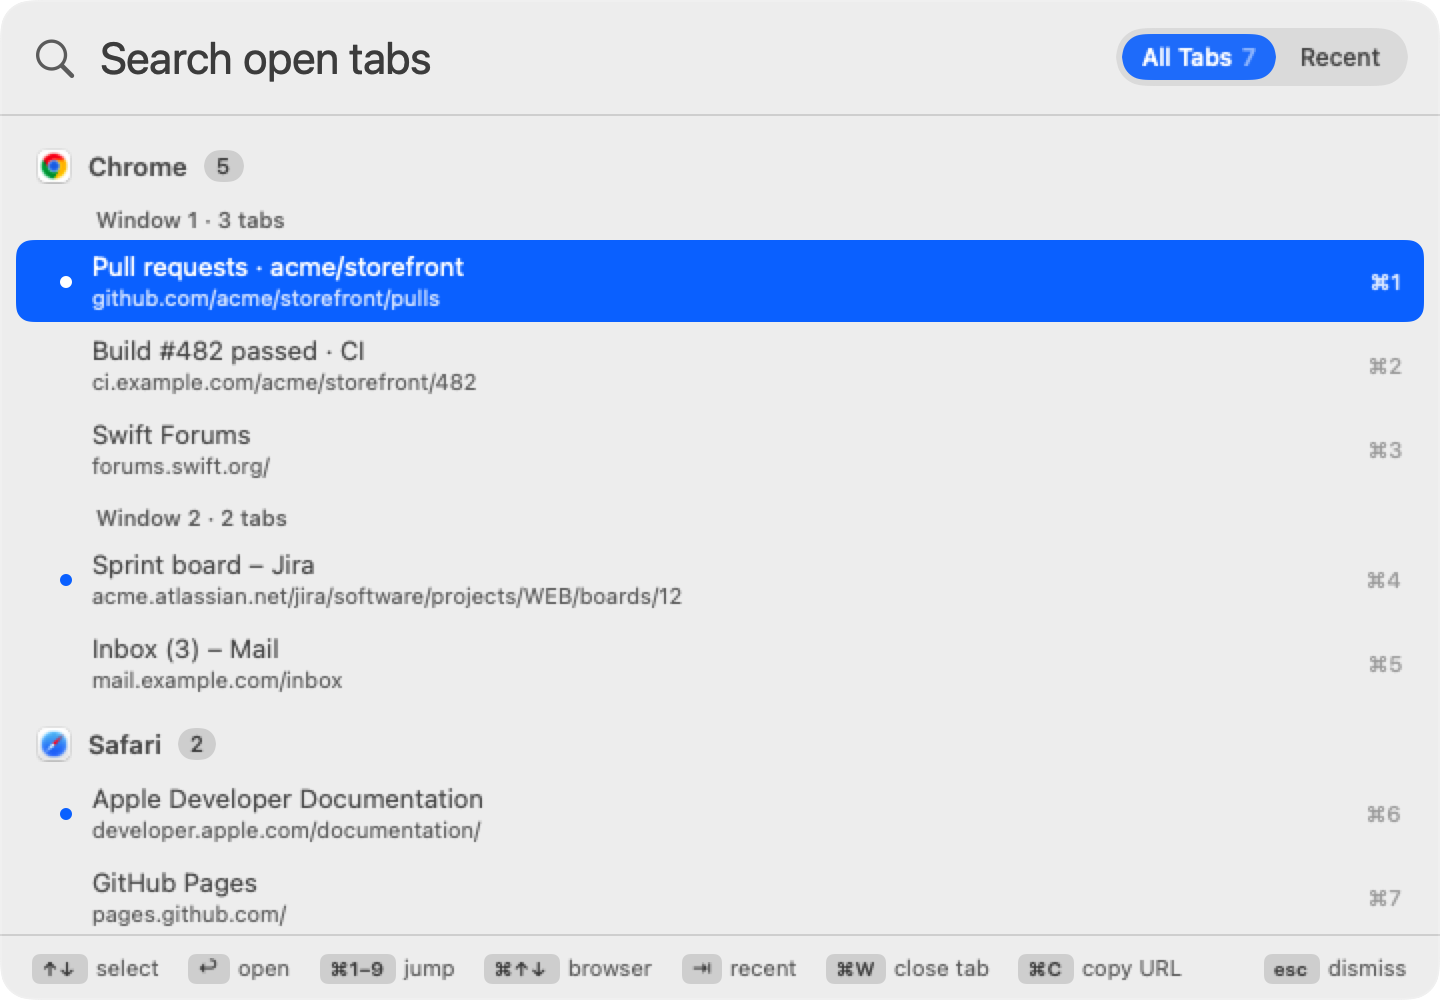
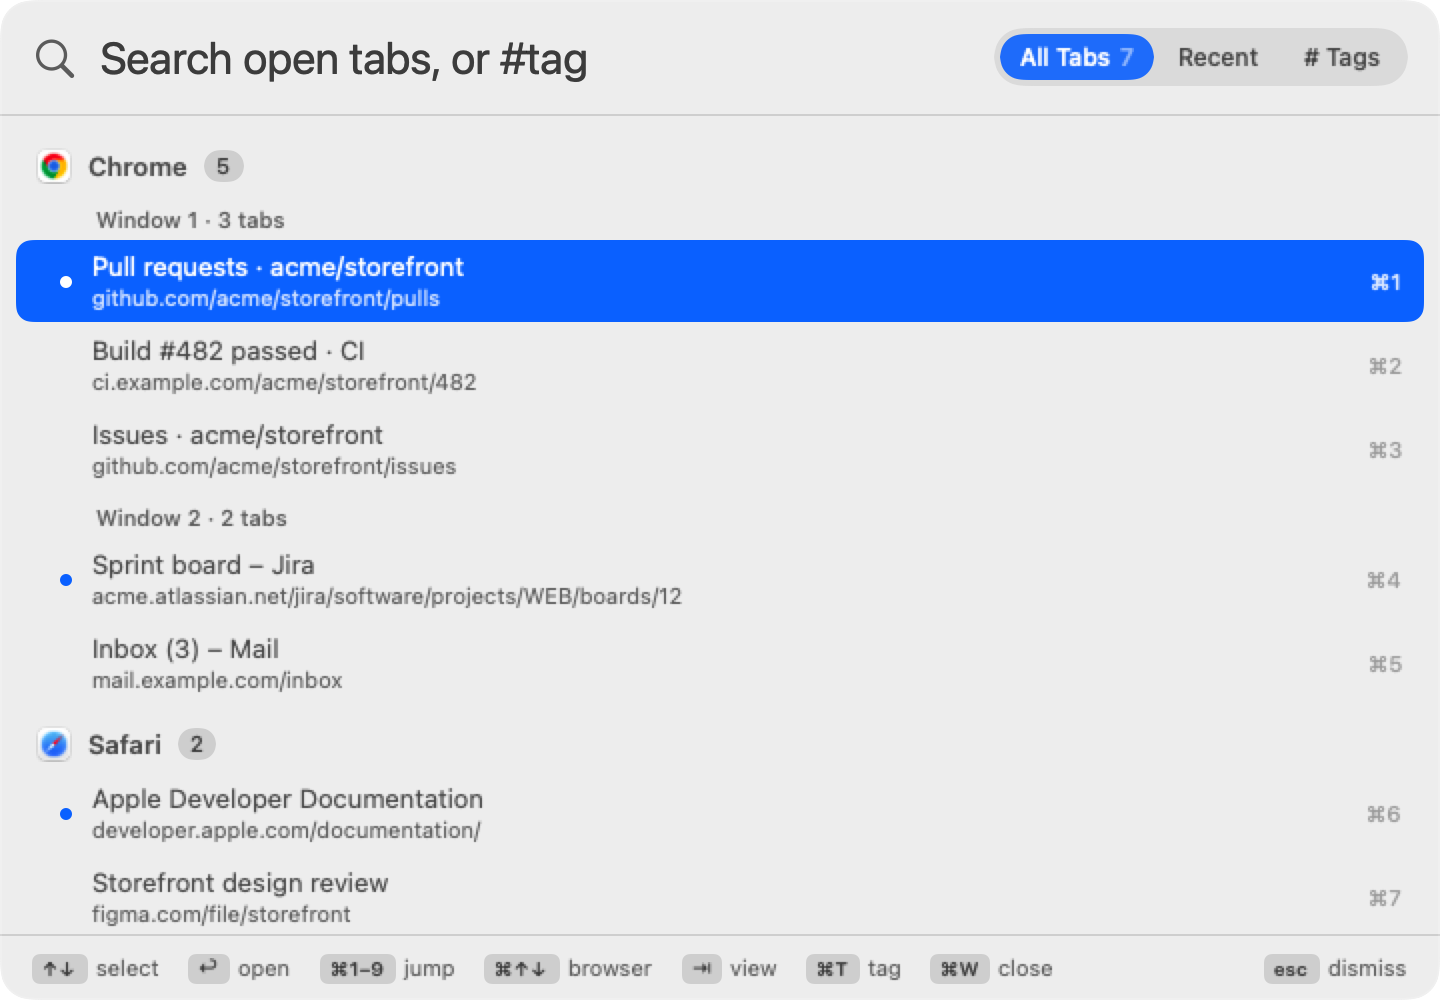
Docs for 1.0.0: hashtags and site groups, more browsers, shortcut conflicts, App Store edition and listing; Tags screenshot

diff --git a/docs.html b/docs.html
@@ -6,7 +6,7 @@
   <title>Docs · BrowserSearch</title>
   <meta name="description" content="How to use BrowserSearch: hotkey, the tab tree, search, recent tabs, keyboard controls, browser support, permissions and settings.">
   <link rel="icon" href="images/icon.png">
-  <link rel="stylesheet" href="assets/style.css?v=2">
+  <link rel="stylesheet" href="assets/style.css?v=4">
 </head>
 <body>
 <header class="site-header">
@@ -26,6 +26,7 @@
     <a href="#panel">The panel</a>
     <a href="#search">Searching</a>
     <a href="#recent">Recent tabs</a>
+    <a href="#tags">Hashtags &amp; groups</a>
     <a href="#keys">Keyboard</a>
     <a href="#browsers">Supported browsers</a>
     <a href="#permissions">Permissions</a>
@@ -62,6 +63,8 @@
       <li><strong>Letters can be skipped</strong> once you type three or more, as long as they're close together: <code>gthb</code> finds GitHub.</li>
       <li><strong>Exact text ranks first,</strong> and a match near the start beats one near the end. The browser with the best match is listed first.</li>
       <li><strong>Add a browser name</strong> to narrow it down: <code>safari docs</code>.</li>
+      <li><strong>Matched text is highlighted</strong> in bold in each title.</li>
+      <li><strong>Nothing open?</strong> When no tab matches, <kbd>↩</kbd> searches the web for what you typed in your default browser.</li>
     </ul>
 
     <h2 id="recent">Recent tabs</h2>
@@ -75,6 +78,19 @@
     </ul>
     <div class="callout">Turn on <strong>Open the panel on Recent</strong> in Settings to make jump-back a two-key habit. Recent tabs can be turned off or cleared at any time.</div>
 
+    <h2 id="tags">Hashtags &amp; groups</h2>
+    <p>Group tabs your way with hashtags, and let BrowserSearch group them by site for you.</p>
+    <img src="images/panel-tags.png" alt="The Tags view with site groups">
+    <ul>
+      <li><strong>Tag a tab:</strong> select it and press <kbd>⌘T</kbd>. Type tags like <code>#work #jira</code> (the <code>#</code> is optional), then <kbd>↩</kbd>. <kbd>esc</kbd> cancels; clear the box to remove tags.</li>
+      <li><strong>Tags follow the page,</strong> not the browser: the same address open in Chrome and Safari shares its tags, and they come back when you reopen it.</li>
+      <li><strong>Search by tag</strong> in any view: <code>#wo</code> shows tabs with a tag starting “wo”. Mix with text: <code>#work jira</code>.</li>
+      <li><strong>The # Tags view</strong> (<kbd>⇥</kbd> until it's selected) lists your tags, most used first, each with its tabs. <kbd>⌘↑</kbd> <kbd>⌘↓</kbd> jump between tags.</li>
+      <li><strong>Site groups</strong> appear below your tags automatically for any site with two or more open tabs (<code>github</code>, <code>atlassian</code>…), marked “site”.</li>
+      <li><strong>Click a tag chip</strong> on a result to show everything with that tag.</li>
+    </ul>
+    <p>Firefox tabs have no address available, so they're tagged by title.</p>
+
     <h2 id="keys">Keyboard</h2>
     <div class="table-scroll"><table>
       <tr><th>Key</th><th>Action</th></tr>
@@ -84,7 +100,8 @@
       <tr><td><kbd>⌘↑</kbd> / <kbd>⌘↓</kbd></td><td>Jump to the previous / next browser</td></tr>
       <tr><td><kbd>↩</kbd></td><td>Switch to the selected tab</td></tr>
       <tr><td><kbd>⌘1</kbd>–<kbd>⌘9</kbd></td><td>Switch to result 1–9</td></tr>
-      <tr><td><kbd>⇥</kbd></td><td>Toggle All Tabs and Recent</td></tr>
+      <tr><td><kbd>⇥</kbd></td><td>Cycle All Tabs, Recent and # Tags</td></tr>
+      <tr><td><kbd>⌘T</kbd></td><td>Add or edit the selected tab's hashtags</td></tr>
       <tr><td><kbd>⌘W</kbd></td><td>Close the selected tab in its browser (Chrome, Safari)</td></tr>
       <tr><td><kbd>⌘C</kbd></td><td>Copy the selected tab's address (copies text instead if you've selected some in the search box)</td></tr>
       <tr><td><kbd>⌘R</kbd></td><td>Reload the tab list</td></tr>
@@ -97,8 +114,10 @@
       <tr><th>Browser</th><th>Searches</th><th>Close tab</th><th>Recent</th></tr>
       <tr><td>Google Chrome</td><td>Title and address</td><td>Yes</td><td>Yes</td></tr>
       <tr><td>Safari</td><td>Title and address</td><td>Yes</td><td>Yes</td></tr>
+      <tr><td>Brave, Microsoft Edge, Vivaldi</td><td>Title and address</td><td>Yes</td><td>Yes</td></tr>
       <tr><td>Firefox</td><td>Title only</td><td>No</td><td>Yes, but closed Firefox tabs can't be reopened</td></tr>
     </table></div>
+    <div class="callout">The <strong>Mac App Store edition</strong> doesn't include Firefox: reading Firefox tabs needs Accessibility access, which App Store apps can't use. Everything else is the same.</div>
     <p>Browsers that aren't running are skipped. BrowserSearch never opens a browser just to search it.</p>
 
     <h2 id="permissions">Permissions</h2>
@@ -109,14 +128,18 @@
     <p>Open from the menu bar icon › <strong>Settings…</strong>, or open BrowserSearch again from Finder or Spotlight.</p>
     <h3>General</h3>
     <ul>
-      <li><strong>Search shortcut.</strong> Click it and press a new combination. <kbd>esc</kbd> cancels. Combinations another app already owns are refused.</li>
+      <li><strong>Search shortcut.</strong> Click it and press a new combination. <kbd>esc</kbd> cancels. BrowserSearch checks it against macOS shortcuts, other apps' global hotkeys, your custom App Shortcuts and Services, and the default shortcuts of launchers you have installed (ChatGPT, Raycast, Alfred). A combination that wouldn't reach BrowserSearch asks before it's used; softer clashes, like <kbd>⌘F</kbd> which every app uses for Find, are shown as warnings under the shortcut.</li>
       <li><strong>Launch at login.</strong> Starts BrowserSearch quietly in the menu bar when you log in. If macOS asks for approval, click <strong>Open Login Items</strong>.</li>
       <li><strong>Show in menu bar.</strong> Turn off for a clean menu bar. The shortcut keeps working; open BrowserSearch from Finder or Spotlight to get back to Settings.</li>
+    </ul>
+    <h3>Search</h3>
+    <ul>
       <li><strong>Match web addresses.</strong> On by default. Turn off to search tab titles only.</li>
       <li><strong>Show web addresses in results.</strong> Hide the address line for a more compact list.</li>
       <li><strong>Remember recently used tabs.</strong> Turns the Recent view on or off.</li>
       <li><strong>Open the panel on Recent.</strong> Start in Recent instead of All Tabs.</li>
       <li><strong>Clear Recent Tabs.</strong> Forgets the list.</li>
+      <li><strong>Hashtags › Clear All Tags.</strong> Removes every tag you've added.</li>
     </ul>
     <h3>Browsers</h3>
     <ul>

diff --git a/index.html b/index.html
@@ -6,7 +6,7 @@
   <title>BrowserSearch for macOS</title>
   <meta name="description" content="BrowserSearch finds any open tab in Chrome, Safari or Firefox with a keystroke. Tabs grouped by browser and window, fuzzy search, recent tabs, and it jumps straight to the right tab.">
   <link rel="icon" href="images/icon.png">
-  <link rel="stylesheet" href="assets/style.css?v=2">
+  <link rel="stylesheet" href="assets/style.css?v=4">
 </head>
 <body>
 <header class="site-header">
@@ -29,20 +29,23 @@
       <a class="btn primary" href="docs.html#start">Get started</a>
       <a class="btn" href="#keyboard">Keyboard shortcuts</a>
     </div>
-    <p class="meta">macOS 14 Sonoma or later · Lives in your menu bar · Nothing leaves your Mac</p>
+    <p class="meta">macOS 14 Sonoma or later · Chrome, Safari, Firefox, Brave, Edge, Vivaldi · Nothing leaves your Mac</p>
 
     <div class="viewer">
       <input type="radio" name="view" id="v-all" checked>
       <input type="radio" name="view" id="v-search">
       <input type="radio" name="view" id="v-recent">
+      <input type="radio" name="view" id="v-tags">
       <div class="switch" role="tablist" aria-label="Screenshots">
         <label for="v-all">All tabs</label>
         <label for="v-search">Searching</label>
         <label for="v-recent">Recent</label>
+        <label for="v-tags"># Tags</label>
       </div>
       <div class="frames">
         <img class="f-all" src="images/panel-all.png" alt="The BrowserSearch panel listing tabs grouped under Chrome and Safari, and by window">
         <img class="f-search" src="images/panel-search.png" alt="Typing 'store' narrows the list to the two matching Chrome tabs">
+        <img class="f-tags" src="images/panel-tags.png" alt="The Tags view grouping tabs under site groups like github and example">
         <img class="f-recent" src="images/panel-recent.png" alt="The Recent list showing the most recently used tabs, newest first, with the previous tab preselected">
       </div>
     </div>
@@ -71,10 +74,14 @@
       <div class="grid">
         <div class="card"><span class="emoji">🌳</span><h3>Organized like your Mac</h3><p>Tabs grouped by browser, then by window, with the tab each window is showing marked.</p></div>
         <div class="card"><span class="emoji">🔎</span><h3>Fuzzy search</h3><p>Titles and addresses. <code>store</code>, <code>gh pull</code>, or just initials: <code>pr</code> finds “Pull requests”.</p></div>
-        <div class="card"><span class="emoji">🕘</span><h3>Recent tabs <span class="tag new">new</span></h3><p>A live, most-recently-used list across all browsers. Press <kbd>⇥</kbd> to switch to it.</p></div>
+        <div class="card"><span class="emoji">#⃣</span><h3>Hashtag groups <span class="tag new">new</span></h3><p>Press <kbd>⌘T</kbd> to tag a tab <code>#work</code>. Type <code>#wo</code> to see just those, or open the <strong># Tags</strong> view.</p></div>
+        <div class="card"><span class="emoji">🌐</span><h3>Automatic site groups <span class="tag new">new</span></h3><p>Tabs from the same site group themselves in the Tags view: every GitHub tab under <code>github</code>, no setup.</p></div>
+        <div class="card"><span class="emoji">🕘</span><h3>Recent tabs</h3><p>A live, most-recently-used list across all browsers. Press <kbd>⇥</kbd> to switch to it.</p></div>
         <div class="card"><span class="emoji">↩</span><h3>Jump back</h3><p>Open on Recent and the previous tab is preselected: shortcut, <kbd>↩</kbd>, and you're back. Like <kbd>⌘⇥</kbd> for tabs.</p></div>
         <div class="card"><span class="emoji">⚡</span><h3>Number keys</h3><p><kbd>⌘1</kbd>–<kbd>⌘9</kbd> open the first nine results instantly. <kbd>⌘↑</kbd> <kbd>⌘↓</kbd> hop between browsers.</p></div>
         <div class="card"><span class="emoji">🧹</span><h3>Tidy up</h3><p>Close the selected tab with <kbd>⌘W</kbd> without leaving the panel. Copy its address with <kbd>⌘C</kbd>.</p></div>
+        <div class="card"><span class="emoji">🔍</span><h3>Not open? Search the web</h3><p>When no tab matches, <kbd>↩</kbd> searches the web for what you typed, in your default browser.</p></div>
+        <div class="card"><span class="emoji">🛡</span><h3>Shortcut conflict check</h3><p>Warns when your shortcut clashes with macOS, another app's hotkey, or a launcher like Raycast, Alfred or ChatGPT.</p></div>
         <div class="card"><span class="emoji">♻</span><h3>Reopen closed tabs</h3><p>Tabs you closed stay in Recent; pick one to open it again in the same browser.</p></div>
         <div class="card"><span class="emoji">💤</span><h3>Never launches browsers</h3><p>Only open browsers are searched. If only Chrome is running, only Chrome is searched.</p></div>
         <div class="card"><span class="emoji">🔒</span><h3>Private by design</h3><p>No network access, no analytics. Recent tabs are kept on your Mac and can be turned off or cleared.</p></div>
@@ -126,7 +133,8 @@
         <div class="key"><kbd>↩</kbd><span>Switch to the tab</span></div>
         <div class="key"><kbd>⌘1–9</kbd><span>Open result 1–9</span></div>
         <div class="key"><kbd>⌘↑ ⌘↓</kbd><span>Previous / next browser</span></div>
-        <div class="key"><kbd>⇥</kbd><span>All tabs ⇄ Recent</span></div>
+        <div class="key"><kbd>⇥</kbd><span>All · Recent · Tags</span></div>
+        <div class="key"><kbd>⌘T</kbd><span>Tag the selected tab</span></div>
         <div class="key"><kbd>⌘W</kbd><span>Close the selected tab</span></div>
         <div class="key"><kbd>⌘C</kbd><span>Copy the tab's address</span></div>
         <div class="key"><kbd>⌘R</kbd><span>Reload the tab list</span></div>
@@ -146,7 +154,8 @@
         <tr><th>Browser</th><th>Search titles</th><th>Search addresses</th><th>Switch</th><th>Close with ⌘W</th></tr>
         <tr><td>Google Chrome</td><td class="yes">✓</td><td class="yes">✓</td><td class="yes">✓</td><td class="yes">✓</td></tr>
         <tr><td>Safari</td><td class="yes">✓</td><td class="yes">✓</td><td class="yes">✓</td><td class="yes">✓</td></tr>
-        <tr><td>Firefox</td><td class="yes">✓</td><td>—</td><td class="yes">✓</td><td>—</td></tr>
+        <tr><td>Brave, Microsoft Edge, Vivaldi</td><td class="yes">✓</td><td class="yes">✓</td><td class="yes">✓</td><td class="yes">✓</td></tr>
+        <tr><td>Firefox <span class="tag">direct download</span></td><td class="yes">✓</td><td>—</td><td class="yes">✓</td><td>—</td></tr>
       </table></div>
     </div>
   </section>

diff --git a/support.html b/support.html
@@ -6,7 +6,7 @@
   <title>Support · BrowserSearch</title>
   <meta name="description" content="Troubleshooting and help for BrowserSearch.">
   <link rel="icon" href="images/icon.png">
-  <link rel="stylesheet" href="assets/style.css?v=2">
+  <link rel="stylesheet" href="assets/style.css?v=4">
 </head>
 <body>
 <header class="site-header">
@@ -46,6 +46,18 @@
         <li>Open <strong>Settings…</strong>. A red note under the shortcut means another app owns it. Record a different one.</li>
         <li>Try choosing <strong>Search Tabs</strong> from the menu bar icon. If the panel opens, the problem is the shortcut, not the app.</li>
       </ol>
+    </details>
+    <details>
+      <summary>Settings shows a warning under my shortcut</summary>
+      <p>BrowserSearch checks your shortcut against macOS, other apps and common launchers. <strong>Red</strong> means the shortcut won't reach BrowserSearch (macOS or another running app owns it): record a different one. <strong>Orange</strong> means it works but clashes with something, for example <kbd>⌘F</kbd> would replace Find in every app, and ChatGPT, Raycast and Alfred use <kbd>⌥Space</kbd> by default. Shortcuts with <kbd>⌃⌥</kbd> are rarely taken.</p>
+    </details>
+    <details>
+      <summary>How do I group tabs?</summary>
+      <p>Select a tab and press <kbd>⌘T</kbd>, type <code>#work</code> and press <kbd>↩</kbd>. Then type <code>#work</code> in the panel, or press <kbd>⇥</kbd> to the <strong># Tags</strong> view. Sites with several open tabs are grouped there automatically.</p>
+    </details>
+    <details>
+      <summary>Why doesn't the App Store version support Firefox?</summary>
+      <p>Firefox can only be read through Accessibility, which apps from the Mac App Store aren't allowed to use. The direct-download edition supports Firefox.</p>
     </details>
     <details>
       <summary>The menu bar icon is gone</summary>

diff --git a/assets/style.css b/assets/style.css
@@ -117,13 +117,16 @@ kbd { border-bottom-width: 2px; white-space: nowrap; }
 .viewer .caption { color: var(--muted); font-size: 15px; margin-top: 16px; display: none; }
 #v-all:checked ~ .switch label[for="v-all"],
 #v-search:checked ~ .switch label[for="v-search"],
-#v-recent:checked ~ .switch label[for="v-recent"] { background: var(--grad); color: #fff; }
+#v-recent:checked ~ .switch label[for="v-recent"],
+#v-tags:checked ~ .switch label[for="v-tags"] { background: var(--grad); color: #fff; }
 #v-all:checked ~ .frames .f-all,
 #v-search:checked ~ .frames .f-search,
-#v-recent:checked ~ .frames .f-recent { display: block; }
+#v-recent:checked ~ .frames .f-recent,
+#v-tags:checked ~ .frames .f-tags { display: block; }
 #v-all:focus-visible ~ .switch label[for="v-all"],
 #v-search:focus-visible ~ .switch label[for="v-search"],
-#v-recent:focus-visible ~ .switch label[for="v-recent"] { outline: 2px solid var(--blue); outline-offset: 2px; }
+#v-recent:focus-visible ~ .switch label[for="v-recent"],
+#v-tags:focus-visible ~ .switch label[for="v-tags"] { outline: 2px solid var(--blue); outline-offset: 2px; }
 
 /* Sections */
 section { padding: 56px 0; }

diff --git a/privacy.html b/privacy.html
@@ -6,7 +6,7 @@
   <title>Privacy · BrowserSearch</title>
   <meta name="description" content="BrowserSearch privacy policy: no data collected, nothing leaves your Mac.">
   <link rel="icon" href="images/icon.png">
-  <link rel="stylesheet" href="assets/style.css?v=2">
+  <link rel="stylesheet" href="assets/style.css?v=4">
 </head>
 <body>
 <header class="site-header">
@@ -33,6 +33,7 @@
     <ul>
       <li>Your settings, such as the search shortcut. Launch at login is managed by macOS.</li>
       <li>With Recent tabs on (the default): the title, URL, browser and time of the <strong>last 50 tabs</strong> you used. They are saved in BrowserSearch's preferences on your Mac so the list survives restarts.</li>
+      <li>Hashtags you add: the tags and the address (or, for Firefox, the title) of each page you tagged. Remove them with <strong>Clear All Tags</strong> in Settings › Search.</li>
     </ul>
     <p>To remove them, click <strong>Clear Recent Tabs</strong> in Settings. To stop collecting them, turn off <strong>Remember recently used tabs</strong>. Turning a browser off in Settings › Browsers also stops tracking it.</p>
 

diff --git a/appstore/listing.md b/appstore/listing.md
@@ -1,0 +1,51 @@
+# BrowserSearch — App Store Connect listing
+
+Bundle ID `com.giridharmb.BrowserSearch` · Platform macOS · Category Productivity · Price Free · SKU `browsersearch-mac`
+
+## Name
+BrowserSearch
+
+## Subtitle (30)
+Find any browser tab instantly
+
+## Promotional text (170)
+Press one shortcut, type a few letters, and jump to any open tab in Chrome, Safari, Brave, Edge or Vivaldi. Now with hashtags to group tabs your way.
+
+## Description
+Too many tabs, too many windows? BrowserSearch finds the one you want in a keystroke.
+
+Press your shortcut from any app, type a few letters of a page's title or address, and press Return. BrowserSearch brings the right browser window forward with that tab selected.
+
+• Every browser at once: Google Chrome, Safari, Brave, Microsoft Edge and Vivaldi, grouped by browser and window.
+• Fuzzy search: matches titles and addresses, initials ("pr" finds Pull requests), and highlights what matched.
+• Recent tabs: a live most-recently-used list across browsers. Jump back to the previous tab in two keys, or reopen one you closed.
+• Hashtags: press ⌘T to tag a tab #work, then type #work to see just those. Tabs from the same site are grouped automatically.
+• Keyboard first: ↑↓ and Return, ⌘1–9 to jump, ⌘W to close a tab, ⌘C to copy its address, Esc to dismiss.
+• Smart shortcut setup: warns if your shortcut clashes with macOS, another app or a launcher.
+• Lives in the menu bar, optional launch at login.
+• Private: no network access, no analytics. Recent tabs and tags stay on your Mac and can be cleared anytime.
+
+BrowserSearch only reads browsers that are already open; it never launches one.
+
+## Keywords (100)
+tabs,browser,tab switcher,search,chrome,safari,hotkey,launcher,productivity,menu bar,brave,edge
+
+## Support URL
+https://giridharmb.github.io/BrowserSearch_Docs/support.html
+
+## Marketing URL
+https://giridharmb.github.io/BrowserSearch_Docs/
+
+## Privacy policy URL
+https://giridharmb.github.io/BrowserSearch_Docs/privacy.html
+
+## App Privacy (nutrition label)
+Data Not Collected.
+
+## Review notes
+BrowserSearch is a tab switcher. It uses Apple Events to read the titles and URLs of open tabs in web browsers and to select the tab the user picks; that is the app's only function. Because these browsers don't publish scripting access groups, the app uses `com.apple.security.temporary-exception.apple-events` for exactly these bundle IDs: com.google.Chrome, com.apple.Safari, com.brave.Browser, com.microsoft.edgemac, com.vivaldi.Vivaldi. macOS asks the user for Automation permission per browser before any access; nothing is sent off the device.
+
+To test: open Safari with a few tabs, launch BrowserSearch (menu bar icon), allow the Automation prompt, press ⌥Space (or choose Search Tabs from the menu bar icon), type part of a tab's title and press Return.
+
+## Screenshots
+Use images/panel-all.png, panel-search.png and panel-recent.png from this repo, padded onto 2880×1800 (or 1440×900) canvases.

diff --git a/README.md b/README.md
@@ -12,8 +12,10 @@ and press **↩**. BrowserSearch switches to that browser, raises the right wind
 - Global hotkey that works from any app, configurable in Settings
 - Tabs grouped by browser and window; fuzzy search as you type (`gh pull`, initials like `pr`)
 - Recent tabs: a live most-recently-used list across browsers, with jump-back and reopen
+- Hashtags: ⌘T to tag a tab `#work`, `#tag` to filter, a # Tags view with automatic site groups
+- Shortcut conflict warnings (macOS, other apps, launchers like Raycast/Alfred/ChatGPT)
 - ⌘1–9 to jump, ⌘W to close a tab, ⌘C to copy its address, Esc to dismiss
-- Searches Google Chrome, Safari and Firefox at the same time; only browsers that are already open are searched
+- Searches Chrome, Safari, Brave, Edge, Vivaldi and Firefox at once; only browsers that are already open are searched
 - Lives in the menu bar, optional launch at login
 - Nothing leaves your Mac: no network access; recent tabs are stored locally and can be cleared
 
@@ -38,7 +40,8 @@ You can review or revoke these in System Settings → Privacy & Security.
 | ↑ / ↓ | Move the selection |
 | ↩ | Switch to the selected tab |
 | ⌘1–9 | Switch to result 1–9 |
-| ⇥ | All tabs ⇄ Recent |
+| ⇥ | All tabs · Recent · Tags |
+| ⌘T | Tag the selected tab |
 | ⌘W / ⌘C | Close tab / copy its address |
 | Esc | Close |
 
